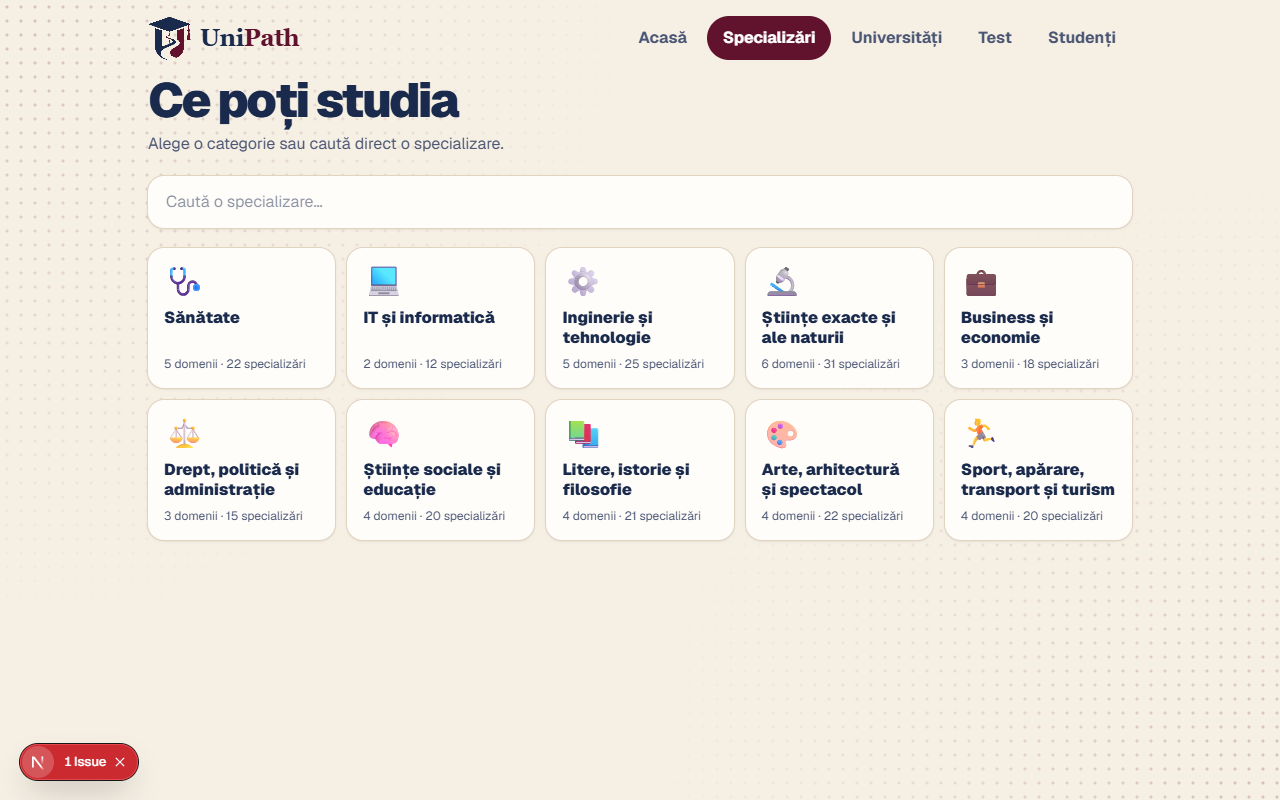
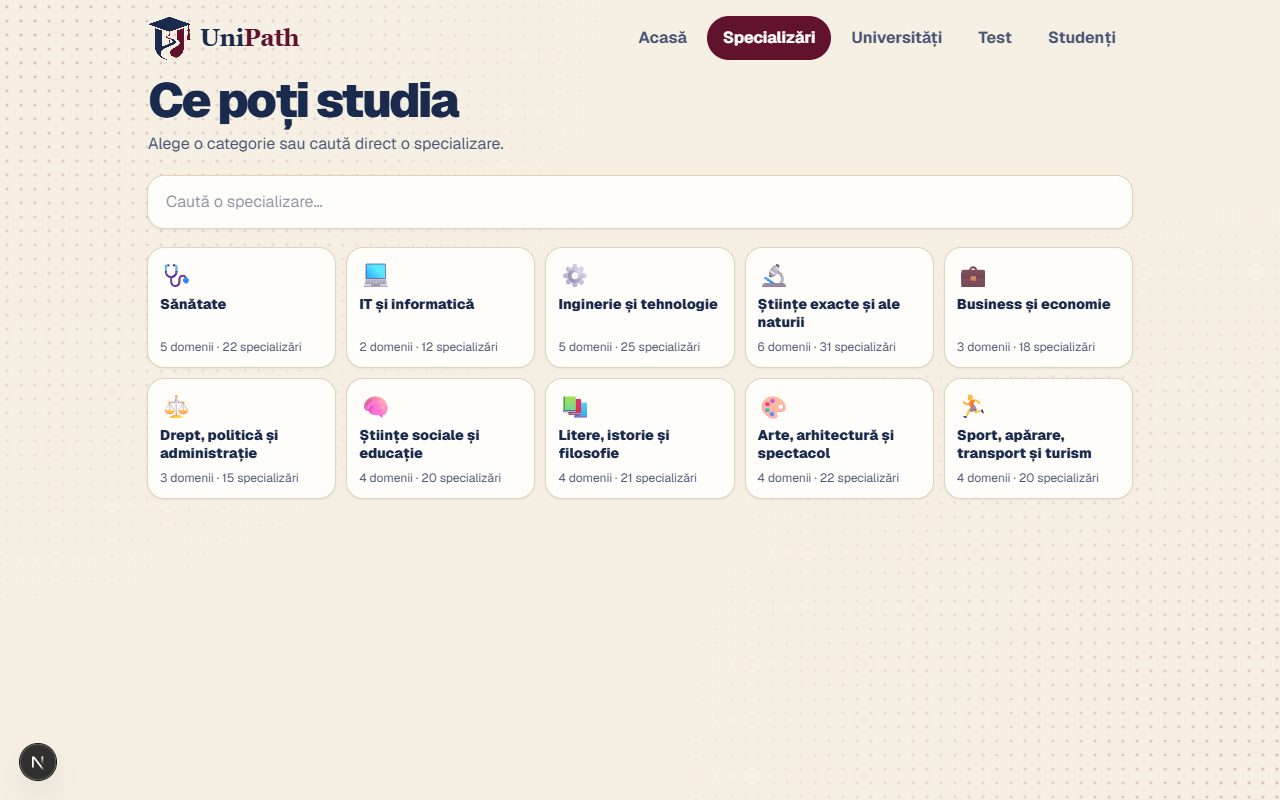
feat: keep specializations only on their own page, not on the home page

Changed region(s): [[0.125, 0.3125, 0.875, 0.6562], [0.0, 0.9062, 0.125, 1.0]]

diff --git a/apps/web/app/page.tsx b/apps/web/app/page.tsx
@@ -1,10 +1,9 @@
-// Home page: search box, hero with the two main actions, and the browsable list of all specializations.
+// Home page: search box and the hero with the two main actions; specializations live on /specializari.
 import Image from "next/image";
 import Link from "next/link";
 import { HeroScene } from "@/components/Illustrations";
 import { SearchBox } from "@/components/SearchBox";
 import { Shell } from "@/components/Shell";
-import { CategoryTiles } from "@/components/CategoryTiles";
 
 export default function Home() {
   return (
@@ -50,19 +49,6 @@ export default function Home() {
         <HeroScene className="float mx-auto w-full max-w-[9rem] sm:max-w-sm md:max-w-none" />
       </section>
 
-      <section aria-labelledby="ce-poti-studia" className="mx-auto mt-8 max-w-4xl">
-        <h2 id="ce-poti-studia" className="text-3xl font-black tracking-tight text-ink">
-          Ce poți studia
-        </h2>
-        <p className="mt-1 mb-4 text-ink-soft">Alege o categorie și vezi domeniile din ea.</p>
-        <CategoryTiles />
-        <Link
-          href="/specializari"
-          className="mt-4 inline-flex min-h-11 items-center font-bold text-primary underline decoration-primary/40 underline-offset-2 hover:text-primary-dark"
-        >
-          Vezi toate specializările →
-        </Link>
-      </section>
     </Shell>
   );
 }

diff --git a/docs/LEDGER.md b/docs/LEDGER.md
@@ -21,6 +21,13 @@ lista de commit-uri de la final se reface singură.
 - Urmează: pasul următor
 -->
 
+### 2026-10-04 19:30 — specializările scoase de pe pagina principală
+- Cerut: pe pagina principală să nu mai apară specializările; să rămână strict pe pagina de specializări. Înainte: repo-ul GitHub făcut public la cererea echipei (istoricul verificat: fără chei sau parole)
+- Făcut: secțiunea „Ce poți studia” cu cele 10 cartonașe scoasă din `/`; rămâne pe `/specializari`, la care se ajunge din meniul de sus
+- Fișiere: `apps/web/app/page.tsx`
+- Poartă: TRECUT (build, 55 teste, pornire); pagina principală văzută în captură pe laptop și telefon; `/specializari` are în continuare cele 10 categorii. Nepublicat
+- Urmează: publicare la cererea echipei; `/pitch`
+
 ### 2026-10-04 19:00 — versiunea aerisită publicată
 - Cerut: publicarea versiunii aerisite, ca echipa să o verifice pe telefon; apoi salvarea progresului
 - Făcut: publicat la https://unipath-taupe-mu.vercel.app (aceeași adresă, același cod QR); nicio schimbare de cod față de intrarea de mai jos
@@ -199,6 +206,7 @@ lista de commit-uri de la final se reface singură.
 ## Commit-uri (automat)
 
 <!-- commits:start -->
+- 2026-10-04 18:02 `97391c5` docs: record the published decluttered version in the ledger
 - 2026-10-04 17:57 `9a716e4` feat: declutter pages - short home, specialization pages, collapsed result cards, compact filters and sheet
 - 2026-10-04 17:24 `9b62030` docs: presentation moved to 2026-10-05
 - 2026-10-04 17:22 `6092918` fix: world-list link check, loading and failure messages, ignore prestige=national
@@ -228,5 +236,4 @@ lista de commit-uri de la final se reface singură.
 - 2026-10-04 00:12 `be94cb3` fix: Vercel login and env vars work from inside the Claude app only
 - 2026-10-04 00:09 `23b8667` feat: deploy through Vercel CLI, stack must be Vercel-compatible
 - 2026-10-04 00:05 `9b25b99` docs: deploy checklist reports in the gate's TRECUT/PICAT/NEVERIFICAT words
-- 2026-10-04 00:02 `63186a4` fix: stop hook asks for the gate only on uncommitted code changes
 <!-- commits:end -->

diff --git a/docs/MAP.md b/docs/MAP.md
@@ -79,7 +79,7 @@ _Open only the files listed here; a file's description is its first comment line
 - `globals.css` (129) — _no description: add a first-line comment_
 - `layout.tsx` (31) — _no description: add a first-line comment_. Exports: metadata, RootLayout
 - `not-found.tsx` (11) — Friendly 404 page shown for unknown routes and unknown university ids.. Exports: NotFound
-- `page.tsx` (69) — Home page: search box, hero with the two main actions, and the browsable list of all specializations.. Routes: /. Exports: Home
+- `page.tsx` (55) — Home page: search box and the hero with the two main actions; specializations live on /specializari.. Routes: /. Exports: Home
 
 ### apps/web/app/quiz  (1 files)
 
